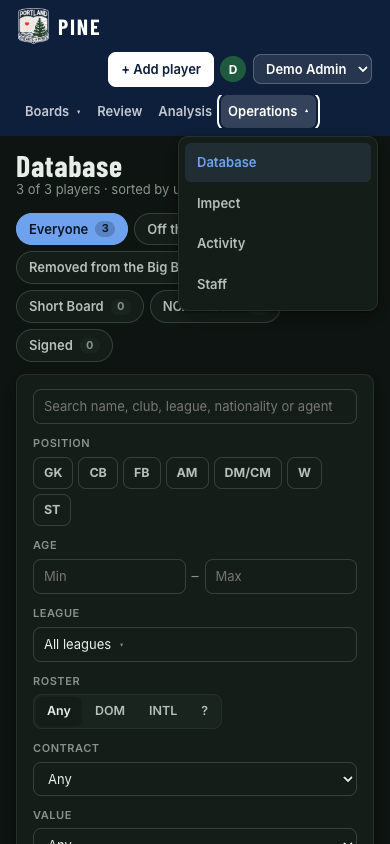
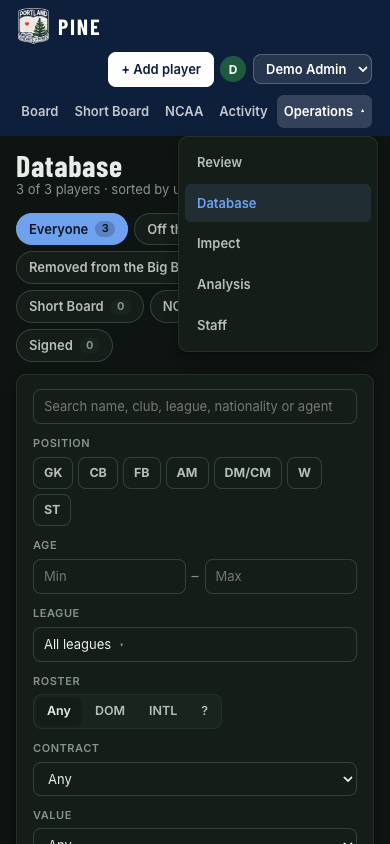
Keep boards and Activity separate; consolidate other tabs in Operations

Changed region(s): [[0.0615, 0.0924, 0.9538, 0.3389], [0.4923, 0.3697, 0.5846, 0.4005]]

diff --git a/public/app.js b/public/app.js
@@ -369,19 +369,16 @@ function renderShell() {
   <header class="top">
     <a class="brand" href="#/board"><img class="club-crest" src="/hop-crest.png?v=1" alt="Portland Hearts of Pine" width="31" height="36"><span class="brand-divider" aria-hidden="true"></span>${LOGO}<span class="wordmark">PINE</span><span class="tagline">Player Identification Network Evaluation</span></a>
     <nav class="nav" id="nav">
-      <button class="nav-trigger" id="boards-trigger" type="button" popovertarget="boards-menu" aria-controls="boards-menu" aria-expanded="false">Boards<span aria-hidden="true">▾</span></button>
-      <div class="nav-menu" id="boards-menu" popover role="group" aria-label="Boards">
-        <a href="#/board" data-v="board">Big Board</a>
-        <a href="#/short-board" data-v="short-board">Short Board</a>
-        <a href="#/ncaa" data-v="ncaa">NCAA</a>
-      </div>
-      ${reviewRole() ? `<a href="#/review" data-v="review">Review<span class="nav-badge" id="review-badge" ${S.reviewOpen ? "" : "hidden"}>${S.reviewOpen || ""}</span></a>` : ""}
-      <a href="#/analysis" data-v="analysis">Analysis</a>
-      <button class="nav-trigger" id="operations-trigger" type="button" popovertarget="operations-menu" aria-controls="operations-menu" aria-expanded="false">Operations<span aria-hidden="true">▾</span></button>
+      <a href="#/board" data-v="board">Big Board</a>
+      <a href="#/short-board" data-v="short-board">Short Board</a>
+      <a href="#/ncaa" data-v="ncaa">NCAA</a>
+      <a href="#/activity" data-v="activity">Activity</a>
+      <button class="nav-trigger" id="operations-trigger" type="button" popovertarget="operations-menu" aria-controls="operations-menu" aria-expanded="false">Operations${reviewRole() ? `<span class="nav-badge" id="operations-review-badge" title="Reviews waiting on you" ${S.reviewOpen ? "" : "hidden"}>${S.reviewOpen || ""}</span>` : ""}<span class="nav-caret" aria-hidden="true">▾</span></button>
       <div class="nav-menu" id="operations-menu" popover role="group" aria-label="Operations">
+        ${reviewRole() ? `<a href="#/review" data-v="review">Review<span class="nav-badge" id="review-badge" ${S.reviewOpen ? "" : "hidden"}>${S.reviewOpen || ""}</span></a>` : ""}
         <a href="#/players" data-v="players">Database</a>
         <a href="#/impect" data-v="impect">Impect</a>
-        <a href="#/activity" data-v="activity">Activity</a>
+        <a href="#/analysis" data-v="analysis">Analysis</a>
         ${S.me.is_admin ? `<a href="#/staff" data-v="staff">Staff</a>` : ""}
       </div>
     </nav>
@@ -483,9 +480,8 @@ async function render() {
     if (a.dataset.v === view) a.setAttribute("aria-current", "page");
     else a.removeAttribute("aria-current");
   });
-  const inOperations = ["players", "player", "impect", "activity", "staff"].includes(view);
+  const inOperations = ["review", "players", "player", "impect", "analysis", "staff"].includes(view);
   $("#operations-trigger").classList.toggle("on", inOperations);
-  $("#boards-trigger").classList.toggle("on", ["board", "short-board", "ncaa"].includes(view));
   const link = $("#nav > .on"), nav = $("#nav");
   if (link && nav.scrollWidth > nav.clientWidth) nav.scrollLeft = link.offsetLeft - nav.offsetLeft - (nav.clientWidth - link.offsetWidth) / 2;
   $("#upd").hidden = !S.staleNotified; // the reload prompt stays up until they reload
@@ -3795,10 +3791,10 @@ const TM_LINK = /transfermarkt\.[a-z.]+\/.+\/spieler\/\d+/i;
 // The count is kept so the nav shows it however it's drawn: boot fetches it before the nav exists.
 function setReviewBadge(n) {
   S.reviewOpen = n || 0;
-  const b = $("#review-badge");
-  if (!b) return;
-  b.hidden = !n;
-  b.textContent = n || "";
+  $$("#review-badge, #operations-review-badge").forEach((b) => {
+    b.hidden = !n;
+    b.textContent = n || "";
+  });
 }
 
 const RV_STATUS = { added_sb: ["On the Short Board", "pass"], added_bb: ["Added to the Big Board", "pass"], moved_bb: ["Moved on the Big Board", "pass"],

diff --git a/public/styles.css b/public/styles.css
@@ -113,8 +113,9 @@ label.lbl, .lbl { display: block; font-size: 11px; font-weight: 600; letter-spac
 .nav { display: flex; align-items: center; gap: 2px; }
 .nav > a, .nav-trigger { flex: none; white-space: nowrap; color: rgba(255, 255, 255, .75); padding: 7px 10px; border-radius: 7px; font-weight: 600; font-size: 13.5px; text-decoration: none; }
 .nav-trigger { display: inline-flex; align-items: center; gap: 7px; border: 0; background: transparent; cursor: pointer; }
-.nav-trigger span { font-size: 10px; }
-.nav-trigger[aria-expanded="true"] span { transform: rotate(180deg); }
+.nav-caret { font-size: 10px; }
+.nav-trigger[aria-expanded="true"] .nav-caret { transform: rotate(180deg); }
+.nav-trigger .nav-badge { margin-left: 0; }
 .nav > a:hover, .nav-trigger:hover { color: #fff; background: rgba(255, 255, 255, .08); }
 .nav > a.on, .nav-trigger.on, .nav-trigger[aria-expanded="true"] { color: #fff; background: rgba(255, 255, 255, .16); }
 .nav > a:focus-visible, .nav-trigger:focus-visible { outline-color: #fff; }

diff --git a/docs/screenshots/operations/README.md b/docs/screenshots/operations/README.md
@@ -1,15 +1,13 @@
-# Boards and Operations navigation
+# Operations navigation
 
-The top bar groups Big Board, Short Board and NCAA under Boards, and Database,
-Impect, Activity and Staff under Operations. Staff is visible only to admins. Each menu
-stays selected on its pages, with the current destination highlighted inside it.
-Operations also stays selected on player profiles. Opening either menu closes
-the other.
+Big Board, Short Board, NCAA and Activity remain individual top-bar tabs.
+Operations groups Review, Database, Impect, Analysis and Staff. Review is visible
+only to the review team, and Staff only to admins. Operations stays selected on
+its pages and on player profiles, with the current destination highlighted in
+the dropdown. Pending reviews appear on both Operations and its Review link.
 
 | View | Light | Dark |
 |---|---|---|
-| Boards, desktop (1440 × 900) | [Screenshot](boards-desktop-light.png) | [Screenshot](boards-desktop-dark.png) |
-| Boards, phone (390 × 844) | [Screenshot](boards-phone-light.png) | [Screenshot](boards-phone-dark.png) |
 | Operations, desktop (1440 × 900) | [Screenshot](desktop-light.png) | [Screenshot](desktop-dark.png) |
 | Operations, phone (390 × 844) | [Screenshot](phone-light.png) | [Screenshot](phone-dark.png) |
 
@@ -19,16 +17,13 @@ access disabled by `scripts/fixtures/offline-fetch.mjs`. Three fictional players
 are added only to that database. There are no staff reports, verdicts, decisions
 or board rankings in the fixture.
 
-Browser verification covered both themes and viewport sizes, every destination,
-click and touch interaction, Enter/Space opening, Tab navigation, Escape with
-focus return, click-away dismissal, selecting the current page, browser Back,
-player-profile highlighting, phone menu bounds and clipping, dismissal when the
-nav scrolls or the viewport resizes, and non-admin Staff visibility and access.
-Boards checks also covered all three destinations, the NCAA database view,
-legacy Short Board links, returning via browser Back, the separate Review tab,
-and mutual dismissal when switching between Boards and Operations.
-Impect checks covered dropdown navigation, direct links, active Operations and
-Impect highlighting, browser Back, and availability for non-admin staff.
+Browser verification covered both themes and viewport sizes, every dropdown and
+top-level destination, click and touch interaction, Enter/Space opening, Tab
+navigation, Escape with focus return, click-away dismissal, browser Back,
+player-profile highlighting, phone menu bounds and clipping, resize dismissal,
+the NCAA database view, review-team visibility, and admin-only Staff visibility.
+Pending-review badges were verified at startup and after polling, including
+clearing the count; opening the dropdown rotates only the caret, not the badge.
 No JavaScript errors or horizontal document overflow occurred in these checks.
 
 Automated checks: `npm run check`, `npm test` (204 passing), and

diff --git a/README.md b/README.md
@@ -208,11 +208,11 @@ Minute share divides recorded player minutes by actual match duration across the
 
 ## What's where
 
-**Boards** in the top bar opens Big Board, Short Board and NCAA, and stays
-highlighted on those pages. **Operations** opens Database, Impect, Activity and (for
-admins) Staff, and stays highlighted on those pages and on player profiles.
-Click a link to go directly to that page; click away or press Escape to close
-either dropdown.
+**Big Board**, **Short Board**, **NCAA** and **Activity** have their own top-bar
+tabs. **Operations** opens Review (for the review team), Database, Impect,
+Analysis and Staff (for admins). It stays highlighted on those pages and on
+player profiles, and shows the review team's pending-review count. Click a link
+to go directly to that page; click away or press Escape to close the dropdown.
 
 Official signings have a magenta frame and **✓ Signed** badge on the player page, Big Board,
 Short Board, NCAA board, player list and search results. Any signed-in staff member can use
